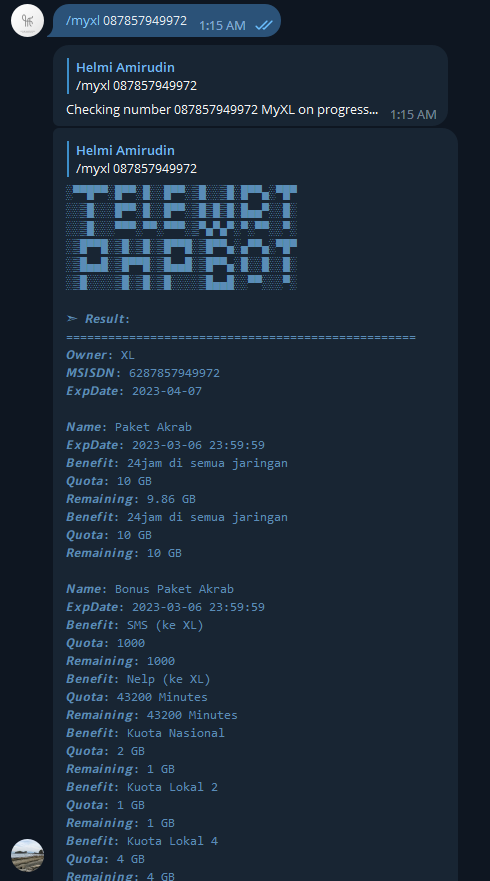
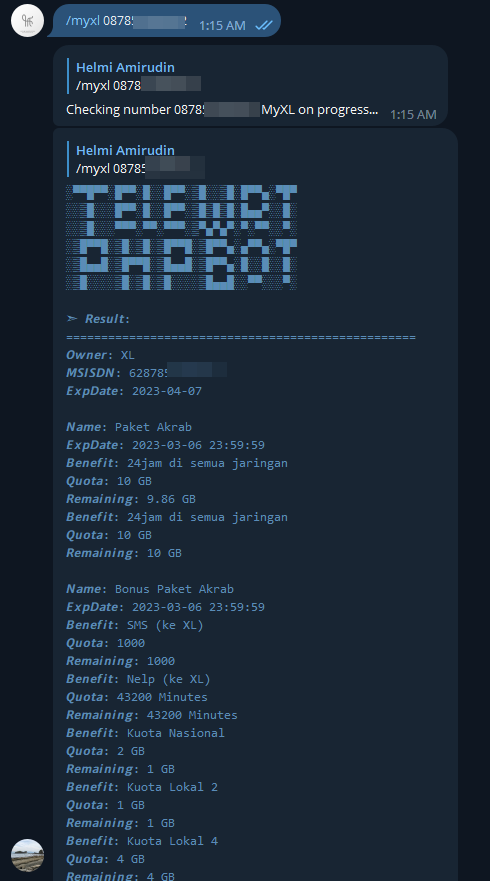
update readme and pics sample

diff --git a/README.md b/README.md
@@ -158,56 +158,83 @@ phpbotmgr t
 ```
 
 ## 📷 Screenshots
+https://raw.githubusercontent.com/helmiau/PHPTeleBotWrt/master/pics/phpbotwrt-cmdlist.png
 
 <details>
 <summary><h5>start on terminal</h5> (click to see screenshot)</summary>
-<p><img src="https://i.ibb.co/mcYqq3S/startbot.png" alt="Startingbot"></p>
+<p><img src="https://raw.githubusercontent.com/helmiau/PHPTeleBotWrt/master/pics/phpbotwrt-start.png" alt="Startingbot"></p>
 </details>
 
 
 <details>
 <summary><h5>/start | /cmdlist</h5> (click to see screenshot)</summary>
-<p><img src="https://i.ibb.co/y4wqFwb/cmdlist.png" alt="Start cmdlist"></p>
+<p><img src="https://raw.githubusercontent.com/helmiau/PHPTeleBotWrt/master/pics/phpbotwrt-cmdlist.png" alt="Start cmdlist"></p>
 </details>
 
 <details>
 <summary><h5>/memory</h5> (click to see screenshot)</summary>
-<p><img src="https://i.ibb.co/cwQ8m1C/memory.png" alt="Memory"></p>
+<p><img src="https://raw.githubusercontent.com/helmiau/PHPTeleBotWrt/master/pics/phpbotwrt-memory.png" alt="Memory"></p>
 </details>
 
 <details>
 <summary><h5>/myip</h5> (click to see screenshot)</summary>
-<p><img src="https://i.ibb.co/PQVB3DH/myip.png" alt="Myip"></p>
+<p><img src="https://raw.githubusercontent.com/helmiau/PHPTeleBotWrt/master/pics/phpbotwrt-myip.png" alt="Myip"></p>
 </details>
 
 <details>
 <summary><h5>/myxl <code>number</code></h5> (click to see screenshot)</summary>
-<p><img src="https://i.ibb.co/bBMf0rg/myxl.png" alt="MyXL"></p>
+<p><img src="https://raw.githubusercontent.com/helmiau/PHPTeleBotWrt/master/pics/phpbotwrt-myxl.png" alt="MyXL"></p>
+</details>
+
+<details>
+<summary><h5>/ping</h5> (click to see screenshot)</summary>
+<p><img src="https://raw.githubusercontent.com/helmiau/PHPTeleBotWrt/master/pics/phpbotwrt-ping.png" alt="Proxies"></p>
 </details>
 
 <details>
 <summary><h5>/proxies</h5> (click to see screenshot)</summary>
-<p><img src="https://i.ibb.co/0fmXhjX/proxies.png" alt="Proxies"></p>
+<p><img src="https://raw.githubusercontent.com/helmiau/PHPTeleBotWrt/master/pics/phpbotwrt-proxies.png" alt="Proxies"></p>
 </details>
 
 <details>
 <summary><h5>/rules</h5> (click to see screenshot)</summary>
-<p><img src="https://i.ibb.co/8DtrH3n/rules.png" alt="Rules"></p>
+<p><img src="https://raw.githubusercontent.com/helmiau/PHPTeleBotWrt/master/pics/phpbotwrt-rules.png" alt="Rules"></p>
 </details>
 
 <details>
 <summary><h5>/speedtest <code>(depend on what speedtest installed)</code></h5> (click to see screenshot)</summary>
-<p><img src="https://i.ibb.co/r3cV90Y/speedtest.png" alt="Speedtest"></p>
+<p><img src="https://raw.githubusercontent.com/helmiau/PHPTeleBotWrt/master/pics/phpbotwrt-speedtest.png" alt="Speedtest"></p>
 </details>
 
 <details>
 <summary><h5>/sysinfo</h5> (click to see screenshot)</summary>
-<p><img src="https://i.ibb.co/2tqS3cM/sysinfo.png" alt="sysinfo"></p>
+<p><img src="https://raw.githubusercontent.com/helmiau/PHPTeleBotWrt/master/pics/phpbotwrt-sysinfo.png" alt="sysinfo"></p>
 </details>
 
 <details>
-<summary><h5>/vnstat or /vnstati <code>-d</code> or <code>-h</code> or <code>-m</code></h5> (click to see screenshot)</summary>
-<p><img src="https://i.ibb.co/0ycJhvP/vnstat.png" alt="vnstat"></p>
+<summary><h5>/vnstat <code>-d</code> or <code>-h</code> or <code>-m</code></h5> (click to see screenshot)</summary>
+<p><img src="https://raw.githubusercontent.com/helmiau/PHPTeleBotWrt/master/pics/phpbotwrt-vnstat.png" alt="vnstat"></p>
+</details>
+
+<details>
+<summary><h5>/vnstati <code>-d</code> or <code>-h</code> or <code>-m</code></h5> (click to see screenshot)</summary>
+<p><img src="https://raw.githubusercontent.com/helmiau/PHPTeleBotWrt/master/pics/phpbotwrt-vnstati1.png" alt="vnstati1"></p>
+<br>
+<p><img src="https://raw.githubusercontent.com/helmiau/PHPTeleBotWrt/master/pics/phpbotwrt-vnstati2.png" alt="vnstati2"></p>
+</details>
+
+<details>
+<summary><h5>/upload</h5> (click to see screenshot)</summary>
+<p><img src="https://raw.githubusercontent.com/helmiau/PHPTeleBotWrt/master/pics/phpbotwrt-upload1.png" alt="upload1"></p>
+<br>
+<p><img src="https://raw.githubusercontent.com/helmiau/PHPTeleBotWrt/master/pics/phpbotwrt-upload2.png" alt="upload2"></p>
+<br>
+<p><img src="https://raw.githubusercontent.com/helmiau/PHPTeleBotWrt/master/pics/phpbotwrt-upload3.png" alt="upload3"></p>
+</details>
+
+<details>
+<summary><h5>/update</h5> (click to see screenshot)</summary>
+<p><img src="https://raw.githubusercontent.com/helmiau/PHPTeleBotWrt/master/pics/phpbotwrt-update.png" alt="vnstati1"></p>
 </details>
 
 
